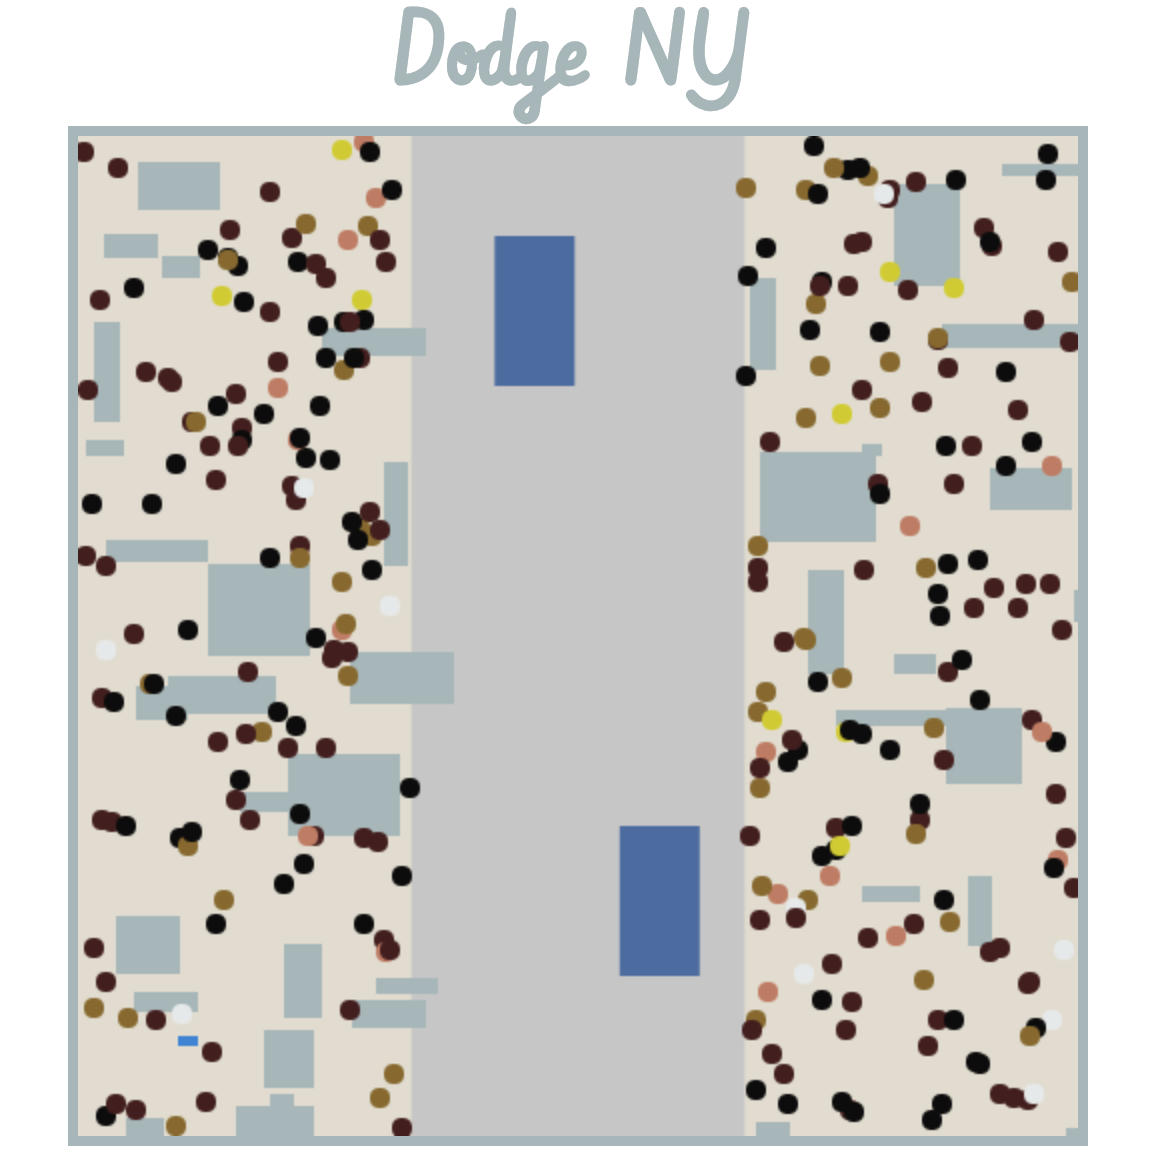
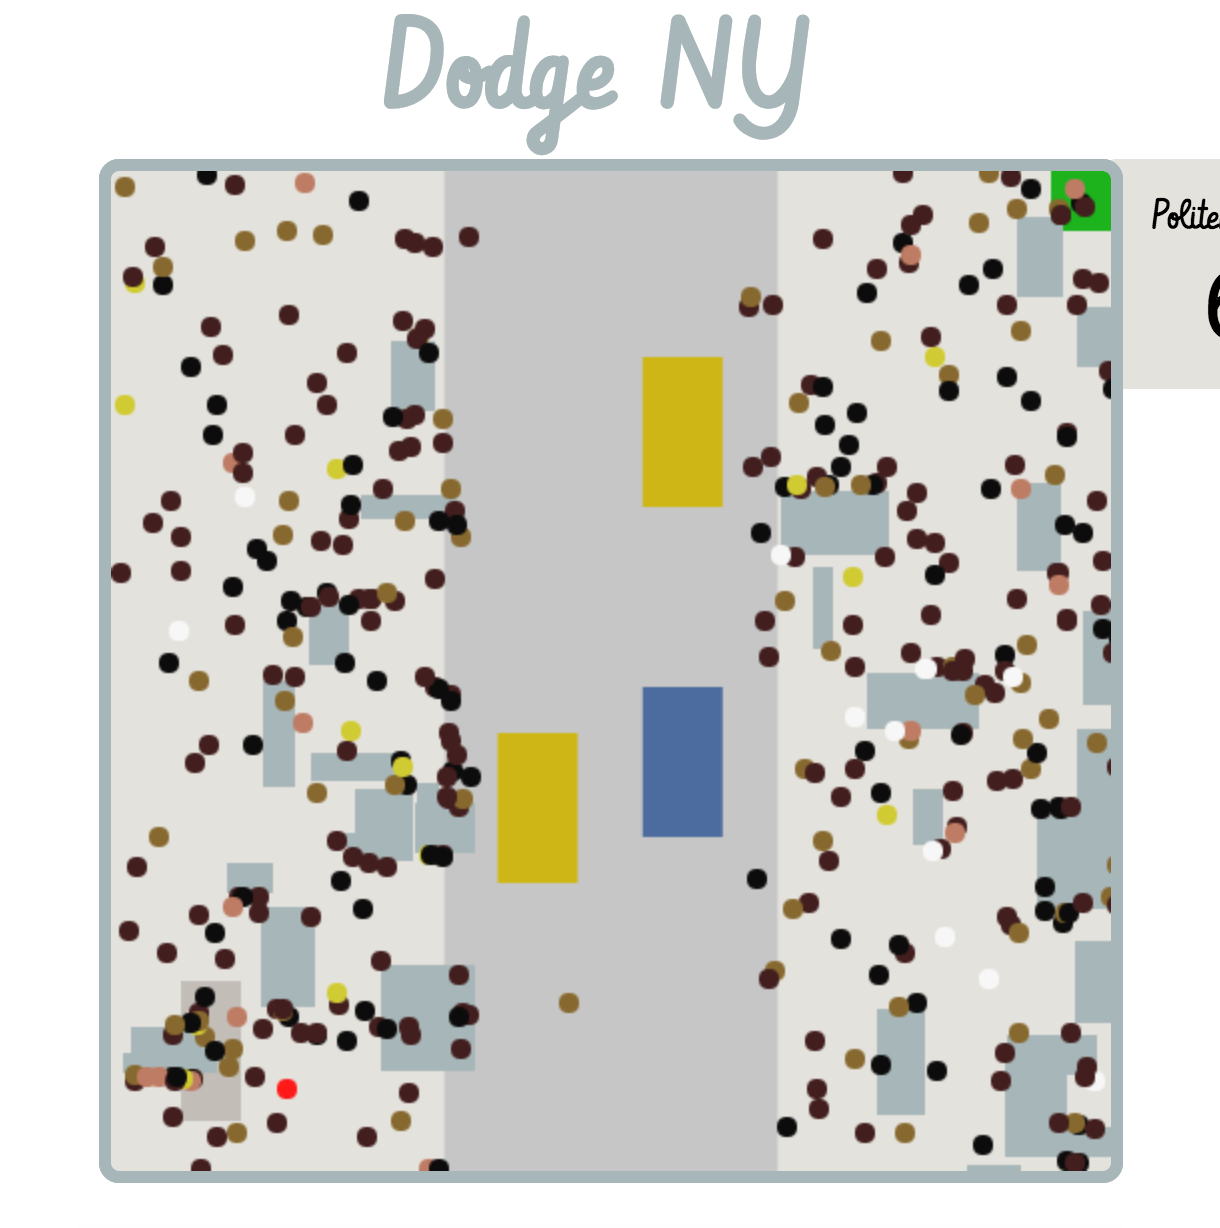
Prep for Heroku

diff --git a/portfolio/index.html b/portfolio/index.html
@@ -134,7 +134,7 @@
 								<div id="content" class="8u 12u(mobile)">
 
 									<!-- Post -->
-										<article class="box post">
+										<article class="box post project-details" id="pollarity-details">
 											<header>
 												<h2><a href="https://pollarity-polls.herokuapp.com/">Pollarity</a></h2>
 											</header>
@@ -185,8 +185,51 @@
 												<h2><a href="#">Dodge NY</a></h2>
 											</header>
 											<h3>JavaScript</h3>
-											<p>Dodge NY is a JavaScript game that ... </p>
-											<a href="#"><img class="image featured" src="images/pic05.jpg" alt="" /></a>
+											<p>
+												Dodge NY is a browser game written in JavaScript. Features:
+											</p>
+											<ul class="feature-list">
+												<li>
+													JavaScript in a simple Node framework, using JQuery and
+													layered	HTML5 canvases and render. A background canvas
+													draws the sidewalk one time per pageload. Obstacles and
+													people are drawn on the top canvas at 200 frames per second.
+												</li>
+												<li>
+													A simple algorithm to simulate crowd movement. "People" characters
+													steer away from obstacles and avoid the road. Jostling crowds nudge
+													the player in random directions, frustrating their intentions and
+													knocking points off the politeness score. Cars run vertically on a
+													partly-randomized timer. Player charater's speed increases while
+													walking in the road and returns to normal on regaining
+													the sidewalk.
+												</li>
+											</ul>
+											<a href="#"><img class="image featured" src="images/dodgeNYscreenshot.png" alt="" /></a>
+										</article>
+
+									<!-- Post -->
+										<article class="box post">
+											<header>
+												<h2><a href="#">quizDOM</a></h2>
+											</header>
+											<h3>JavaScript</h3>
+											<p>
+												quizDOM is a lightweight DOM manipulation library,
+												written as a means to investigate JQuert's inner workings.
+												Features:
+											</p>
+											<ul class="feature-list">
+												<li>
+													
+												</li>
+												<li>
+													Creates promises to handle the results of AJAX
+													requests, simplifying success/failure callback
+													registration and calling.
+												</li>
+											</ul>
+											<a href="#"><img class="image featured" src="images/dodgeNYscreenshot.png" alt="" /></a>
 										</article>
 
 								</div>

diff --git a/portfolio/assets/css/main.css b/portfolio/assets/css/main.css
@@ -432,7 +432,7 @@
 	@media screen and (min-width: 737px) {
 
 		.row > * {
-			padding: 50px 0 0 50px;
+			/*padding: 50px 0 0 50px;*/
 		}
 
 		.row {
@@ -2524,3 +2524,10 @@
 		margin: 2em;
 		display: flex;
 	}
+
+
+#pollarity-details {
+	background: ./images/PollarityScreenshot_preview.png;
+	height: 100%;
+	width: auto;
+}
